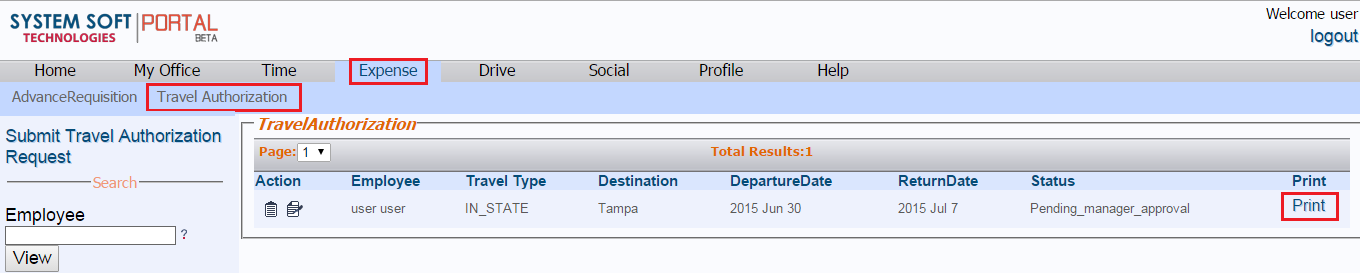
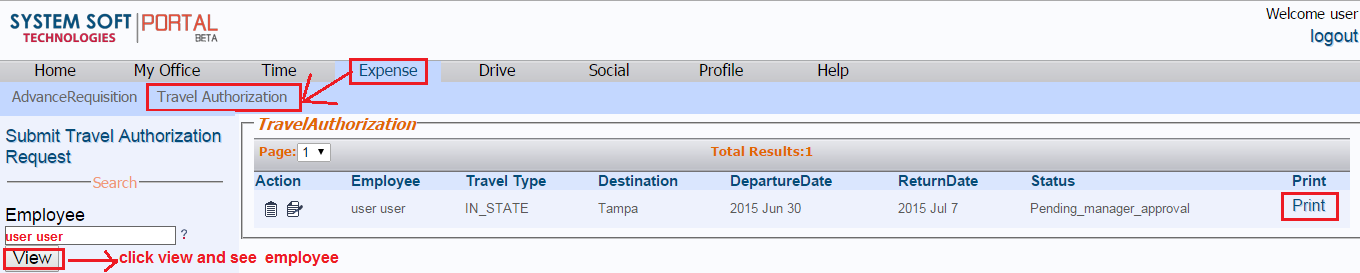
git-svn-id: http://tools.sstech.us/svn/office/trunk@6127 04aae24c-3eb2-d842-8c26-b4285eb26770

diff --git a/office-master/office-doc/src/site/markdown/office/expense/travelauthorization.md b/office-master/office-doc/src/site/markdown/office/expense/travelauthorization.md
@@ -1,27 +1,29 @@
 How to submit Travel Authorization Request
 ==========
  - [Login to Portal](../../office/forgot-password.html "Login")
- - Navigate to Expense --> Expense --> Travel Authorization--> Submit Travel Authorization
+ - Navigate to Expense --> Travel Authorization--> Submit Travel Authorization
  - Employee submits the travel authorization request after entering all the relevant details
- - Reports_To Manager will review and approve the request,After approval process is complete, an email indicating final decision is generated and sent  CEO
- - CEO will review the approved request and approve the request
+ - Reports_To Manager will review and approve/reject the request,Approved request will be send to CEO for final approval.
+ - CEO will review the approved request and approve/reject the request 
  - After approval process is complete, an email indicating final decision is generated and sent to user.
+ - [Travel Authorization Process](../../office/expense/travelauthorizationprocess.html "Login")
 
 Submitting Travel Authorization
 ----
 ![alt text](../../images/expense/travel-authorization.png "Travel Authorization")
 ![alt text](../../images/expense/submit-travelauthorization.png "Travel Authorization")
 
-Travel Authorization Process for Reports_To Manager
-----
-![alt text](../../images/expense/reports-to-approval-task.png "Travel Authorization")
-Travel Authorization Process for CEO Process
-----
-![alt text](../../images/expense/ceo-approval-task.png "Travel Authorization")
-
-Print 
-===========
- - Navigate to Expense --> Travel Authorization --> Print
+Print For Travel Authorization
+==========
+- Navigate to Expense --> Travel Authorization --> Print
 
 ![alt text](../../images/expense/print-travelauthorization.png "Check Requisition")
 ![alt text](../../images/expense/travelauthorization-print-form.png "Check Requisition")
+
+Travel Authorization Process for Reports_To Manager
+----
+![alt text](../../images/expense/travel-reportsto-manager.png "Travel Authorization")
+
+Travel Authorization Process for CEO Process
+----
+![alt text](../../images/expense/travel-ceo-process.png "Travel Authorization")

diff --git a/office-master/office-doc/src/site/markdown/office/expense/travelauthorizationprocess.md b/office-master/office-doc/src/site/markdown/office/expense/travelauthorizationprocess.md
@@ -1,0 +1,25 @@
+Travel Authorization process
+==========
+![alt text](../../images/expense/travel-authorization-process.png "Travel Authorization")
+Travel Authorization Process for Reports_To Manager
+----
+![alt text](../../images/expense/travel-reportsto-manager.png "Travel Authorization")
+Email For Reports_To Manager
+----
+![alt text](../../images/expense/Email_reportsto.png "Travel Authorization")
+
+Travel Authorization Process for Reports_To Manager Task
+----
+![alt text](../../images/expense/pending-manager-approval-task.png "Travel Authorization")
+
+Travel Authorization Process for CEO Process
+----
+![alt text](../../images/expense/ceo-approval-process.png "Travel Authorization")
+
+Email For CEO
+----
+![alt text](../../images/expense/Email_CEOapproval.png "Travel Authorization")
+
+Travel Authorization Process for CEO Process Task
+----
+![alt text](../../images/expense/ceo-approval-task.png "Travel Authorization")
